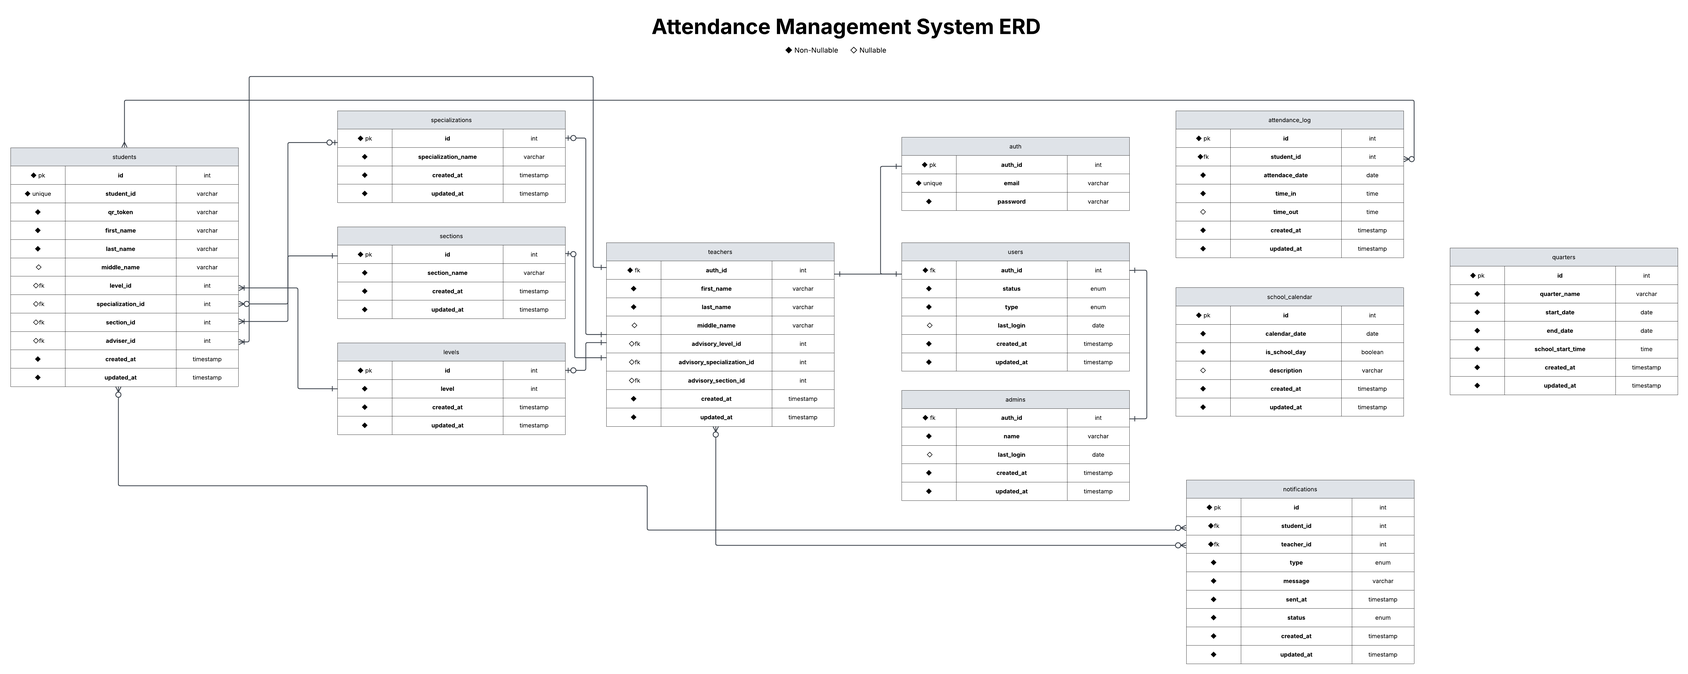
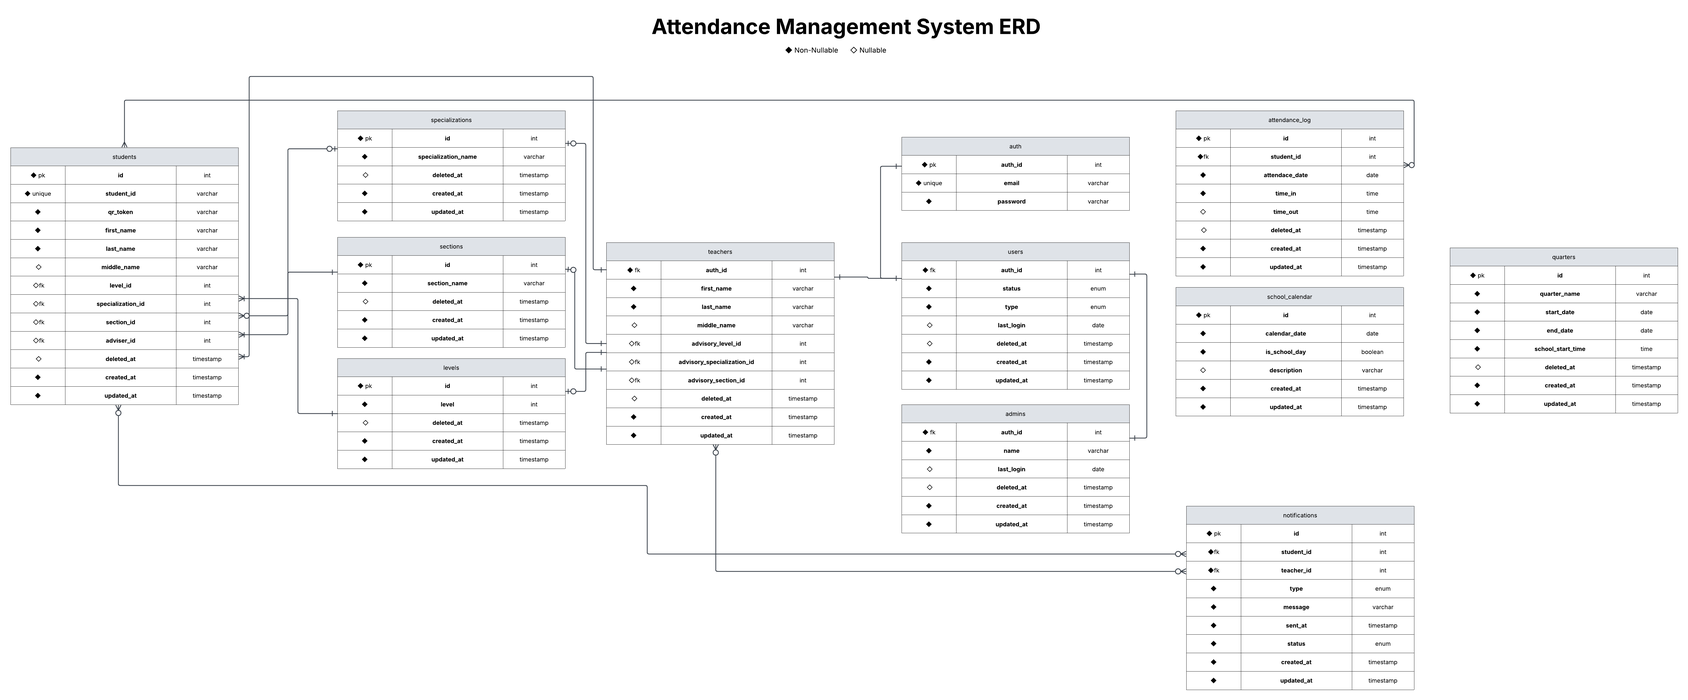
docs: update database schema with ENUM types and soft delete strategy Replace VARCHAR + CHECK constraints with ENUM types for users.type and users.status Add comprehensive soft delete implementation across all business tables Update field types from DATETIME to TIMESTAMP for better cross-database co

diff --git a/docs/schema.md b/docs/schema.md
@@ -4,7 +4,11 @@ This document outlines the database schema for the Attendance Management System,
 
 ## Authentication and RBAC Design
 
-The `auth` table stores credentials for all system users. The `users` table is the supertype, holding common fields (`auth_id`, `status`, `type`, `last_login`) and driving RBAC by checking `type` (e.g., ‘Teacher’, ‘Admin’). Role-specific tables (`teachers`, `admins`) use `auth_id` as both primary key and foreign key to `auth`, storing unique fields for each role. Admins have high-level access (e.g., opening the QR scanning portal), teachers handle advisory roles, and `users` supports extensibility for future roles (e.g., Principal, Student).
+The `auth` table stores credentials for all system users. The `users` table is the supertype, holding common fields (`auth_id`, `status`, `type`, `last_login`) and driving RBAC by checking `type` (e.g., 'Teacher', 'Admin'). Role-specific tables (`teachers`, `admins`) use `auth_id` as both primary key and foreign key to `auth`, storing unique fields for each role. Admins have high-level access (e.g., opening the QR scanning portal), teachers handle advisory roles, and `users` supports extensibility for future roles (e.g., Principal, Student).
+
+## Soft Delete Strategy
+
+Tables containing important business data implement soft deletes using `deleted_at` fields to maintain audit trails, comply with data retention requirements, and preserve referential integrity. Session data and temporary records use hard deletes for performance optimization.
 
 ## Table: `auth`
 
@@ -20,70 +24,73 @@ Stores authentication credentials for all users.
 
 - `email`: UNIQUE
 
-**Why**: Supports secure authentication for all user types. `VARCHAR(255)` accommodates hashed passwords. `auth_id` is referenced by `users`, `teachers`, and `admins`.
+**Why**: Supports secure authentication for all user types. `VARCHAR(255)` accommodates hashed passwords. `auth_id` is referenced by `users`, `teachers`, and `admins`. No soft delete needed - managed by Supabase Auth in this project.
 
 ## Table: `users`
 
 Stores common user account information and drives RBAC.
 
-| Field        | Type                            | Description                                                                |
-| ------------ | ------------------------------- | -------------------------------------------------------------------------- |
-| `auth_id`    | INT                             | Primary key, foreign key to `auth`. Uniquely identifies a user.            |
-| `type`       | ENUM('Teacher','Admin','Staff') | User role, determines access level and links to role-specific table.       |
-| `status`     | ENUM('Active','Banned')         | Account status for access control.                                         |
-| `last_login` | DATETIME                        | Last login time. Nullable.                                                 |
-| `created_at` | DATETIME                        | Record creation time, default CURRENT_TIMESTAMP.                           |
-| `updated_at` | DATETIME                        | Record update time, default CURRENT_TIMESTAMP ON UPDATE CURRENT_TIMESTAMP. |
+| Field        | Type                            | Description                                                          |
+| ------------ | ------------------------------- | -------------------------------------------------------------------- |
+| `auth_id`    | INT                             | Primary key, foreign key to `auth`. Uniquely identifies a user.      |
+| `type`       | ENUM('Teacher','Admin','Staff') | User role, determines access level and links to role-specific table. |
+| `status`     | ENUM('Active','Banned')         | Account status for access control.                                   |
+| `last_login` | TIMESTAMP                       | Last login time. Nullable.                                           |
+| `deleted_at` | TIMESTAMP                       | Soft delete timestamp. NULL = active, timestamp = deleted.           |
+| `created_at` | TIMESTAMP                       | Record creation time, default CURRENT_TIMESTAMP.                     |
+| `updated_at` | TIMESTAMP                       | Record update time, default CURRENT_TIMESTAMP.                       |
 
 **Constraints**:
 
 - Foreign key: `auth_id` (one-to-one with `auth.auth_id`)
-- Index: `auth_id`, `type` (for RBAC queries)
+- Index: `auth_id`, `type`, `deleted_at` (for RBAC queries and active user filtering)
 - UNIQUE: `(auth_id, type)` (prevents duplicate role assignments)
 
-**Why**: Acts as the supertype for all users, managing RBAC and shared fields. `type` directs to role-specific tables (e.g., `teachers` for ‘Teacher’).
+**Why**: Acts as the supertype for all users, managing RBAC and shared fields. `type` directs to role-specific tables (e.g., `teachers` for 'Teacher'). ENUM types prevent invalid data entry and provide better performance than VARCHAR with CHECK constraints. Soft delete preserves user account history and audit trails.
 
 ## Table: `admins`
 
 Stores admin-specific information for high-level system access.
 
-| Field        | Type         | Description                                                                |
-| ------------ | ------------ | -------------------------------------------------------------------------- |
-| `auth_id`    | INT          | Primary key, foreign key to `auth`. Uniquely identifies an admin.          |
-| `name`       | VARCHAR(100) | Admin’s full name.                                                         |
-| `created_at` | DATETIME     | Record creation time, default CURRENT_TIMESTAMP.                           |
-| `updated_at` | DATETIME     | Record update time, default CURRENT_TIMESTAMP ON UPDATE CURRENT_TIMESTAMP. |
+| Field        | Type         | Description                                                       |
+| ------------ | ------------ | ----------------------------------------------------------------- |
+| `auth_id`    | INT          | Primary key, foreign key to `auth`. Uniquely identifies an admin. |
+| `name`       | VARCHAR(100) | Admin's full name.                                                |
+| `deleted_at` | TIMESTAMP    | Soft delete timestamp. NULL = active, timestamp = deleted.        |
+| `created_at` | TIMESTAMP    | Record creation time, default CURRENT_TIMESTAMP.                  |
+| `updated_at` | TIMESTAMP    | Record update time, default CURRENT_TIMESTAMP.                    |
 
 **Constraints**:
 
 - Foreign key: `auth_id` (one-to-one with `auth.auth_id`)
-- Index: `auth_id` (for efficient joins)
+- Index: `auth_id`, `deleted_at` (for efficient joins and active admin filtering)
 
-**Why**: Manages admin accounts with high-level access (e.g., QR scanning portal). Excludes `last_login`, `type` as they’re in `users`.
+**Why**: Manages admin accounts with high-level access (e.g., QR scanning portal). Excludes `last_login`, `type` as they're in `users`. Soft delete preserves administrative history.
 
 ## Table: `teachers`
 
 Stores faculty-specific information for advisory roles.
 
-| Field                        | Type        | Description                                                                |
-| ---------------------------- | ----------- | -------------------------------------------------------------------------- |
-| `auth_id`                    | INT         | Primary key, foreign key to `auth`. Uniquely identifies a teacher.         |
-| `first_name`                 | VARCHAR(50) | Teacher's first name.                                                      |
-| `last_name`                  | VARCHAR(50) | Teacher's last name.                                                       |
-| `middle_name`                | VARCHAR(50) | Teacher's middle name. Nullable.                                           |
-| `advisory_level_id`          | INT         | Foreign key to `levels`, for advisory class.                               |
-| `advisory_specialization_id` | INT         | Foreign key to `specializations`, for advisory track.                      |
-| `advisory_section_id`        | INT         | Foreign key to `sections`, for advisory section.                           |
-| `created_at`                 | DATETIME    | Record creation time, default CURRENT_TIMESTAMP.                           |
-| `updated_at`                 | DATETIME    | Record update time, default CURRENT_TIMESTAMP ON UPDATE CURRENT_TIMESTAMP. |
+| Field                        | Type        | Description                                                        |
+| ---------------------------- | ----------- | ------------------------------------------------------------------ |
+| `auth_id`                    | INT         | Primary key, foreign key to `auth`. Uniquely identifies a teacher. |
+| `first_name`                 | VARCHAR(50) | Teacher's first name.                                              |
+| `last_name`                  | VARCHAR(50) | Teacher's last name.                                               |
+| `middle_name`                | VARCHAR(50) | Teacher's middle name. Nullable.                                   |
+| `advisory_level_id`          | INT         | Foreign key to `levels`, for advisory class.                       |
+| `advisory_specialization_id` | INT         | Foreign key to `specializations`, for advisory track.              |
+| `advisory_section_id`        | INT         | Foreign key to `sections`, for advisory section.                   |
+| `deleted_at`                 | TIMESTAMP   | Soft delete timestamp. NULL = active, timestamp = deleted.         |
+| `created_at`                 | TIMESTAMP   | Record creation time, default CURRENT_TIMESTAMP.                   |
+| `updated_at`                 | TIMESTAMP   | Record update time, default CURRENT_TIMESTAMP.                     |
 
 **Constraints**:
 
 - Foreign key: `auth_id` (one-to-one with `auth.auth_id`)
 - Foreign keys: `advisory_level_id`, `advisory_specialization_id`, `advisory_section_id`
-- Index: `auth_id` (for efficient joins)
+- Index: `auth_id`, `deleted_at` (for efficient joins and active teacher filtering)
 
-**Why**: Stores teacher-specific data (e.g., advisory assignments). Excludes `last_login`, `type` as they’re in `users`.
+**Why**: Stores teacher-specific data (e.g., advisory assignments). Excludes `last_login`, `type` as they're in `users`. Soft delete preserves employment history and advisory relationships.
 
 ## Table: `students`
 
@@ -101,137 +108,166 @@ Stores student information, including QR code tokens and academic details.
 | `specialization_id` | INT         | Foreign key to `specializations`, for filtering by track.                        |
 | `section_id`        | INT         | Foreign key to `sections`, for class grouping.                                   |
 | `adviser_id`        | INT         | Foreign key to `teachers`, for notifications.                                    |
-| `created_at`        | DATETIME    | Record creation time, default CURRENT_TIMESTAMP.                                 |
-| `updated_at`        | DATETIME    | Record update time, default CURRENT_TIMESTAMP ON UPDATE CURRENT_TIMESTAMP.       |
+| `deleted_at`        | TIMESTAMP   | Soft delete timestamp. NULL = active, timestamp = deleted.                       |
+| `created_at`        | TIMESTAMP   | Record creation time, default CURRENT_TIMESTAMP.                                 |
+| `updated_at`        | TIMESTAMP   | Record update time, default CURRENT_TIMESTAMP.                                   |
 
 **Constraints**:
 
 - `student_id`: UNIQUE
 - `qr_token`: UNIQUE
 - Foreign keys: `level_id`, `specialization_id`, `section_id`, `adviser_id`
+- Index: `student_id`, `qr_token`, `deleted_at` (for QR scanning and active student filtering)
 
-**Why**: `qr_token` supports secure QR scanning. Foreign keys enable analytics by level, specialization, or section.
+**Why**: `qr_token` supports secure QR scanning. Foreign keys enable analytics by level, specialization, or section. Soft delete preserves student enrollment history and academic records.
 
 ## Table: `levels`
 
 Stores academic year/grade levels for grouping students.
 
-| Field        | Type     | Description                                                                |
-| ------------ | -------- | -------------------------------------------------------------------------- |
-| `id`         | INT      | Primary key, auto-incremented.                                             |
-| `level`      | INT      | Year or grade level (e.g., 11, 12).                                        |
-| `created_at` | DATETIME | Record creation time, default CURRENT_TIMESTAMP.                           |
-| `updated_at` | DATETIME | Record update time, default CURRENT_TIMESTAMP ON UPDATE CURRENT_TIMESTAMP. |
+| Field        | Type      | Description                                                |
+| ------------ | --------- | ---------------------------------------------------------- |
+| `id`         | INT       | Primary key, auto-incremented.                             |
+| `level`      | INT       | Year or grade level (e.g., 11, 12).                        |
+| `deleted_at` | TIMESTAMP | Soft delete timestamp. NULL = active, timestamp = deleted. |
+| `created_at` | TIMESTAMP | Record creation time, default CURRENT_TIMESTAMP.           |
+| `updated_at` | TIMESTAMP | Record update time, default CURRENT_TIMESTAMP.             |
 
-**Why**: Enables analytics by grade level. `INT` for `level` is sufficient for grades 1–12.
+**Constraints**:
+
+- Index: `deleted_at` (for active level filtering)
+
+**Why**: Enables analytics by grade level. `INT` for `level` is sufficient for grades 1–12. Soft delete prevents foreign key violations when levels are referenced by students.
 
 ## Table: `sections`
 
 Stores class section groupings.
 
-| Field          | Type        | Description                                                                |
-| -------------- | ----------- | -------------------------------------------------------------------------- |
-| `id`           | INT         | Primary key, auto-incremented.                                             |
-| `section_name` | VARCHAR(20) | Section name (e.g., "A", "B").                                             |
-| `created_at`   | DATETIME    | Record creation time, default CURRENT_TIMESTAMP.                           |
-| `updated_at`   | DATETIME    | Record update time, default CURRENT_TIMESTAMP ON UPDATE CURRENT_TIMESTAMP. |
+| Field          | Type        | Description                                                |
+| -------------- | ----------- | ---------------------------------------------------------- |
+| `id`           | INT         | Primary key, auto-incremented.                             |
+| `section_name` | VARCHAR(20) | Section name (e.g., "A", "B").                             |
+| `deleted_at`   | TIMESTAMP   | Soft delete timestamp. NULL = active, timestamp = deleted. |
+| `created_at`   | TIMESTAMP   | Record creation time, default CURRENT_TIMESTAMP.           |
+| `updated_at`   | TIMESTAMP   | Record update time, default CURRENT_TIMESTAMP.             |
 
-**Why**: Supports grouping for analytics and late tracking.
+**Constraints**:
+
+- Index: `deleted_at` (for active section filtering)
+
+**Why**: Supports grouping for analytics and late tracking. Soft delete prevents foreign key violations when sections are referenced by students.
 
 ## Table: `specializations`
 
 Stores student academic tracks (e.g., STEM, ABM).
 
-| Field                 | Type        | Description                                                                |
-| --------------------- | ----------- | -------------------------------------------------------------------------- |
-| `id`                  | INT         | Primary key, auto-incremented.                                             |
-| `specialization_name` | VARCHAR(50) | Track name (e.g., "STEM").                                                 |
-| `created_at`          | DATETIME    | Record creation time, default CURRENT_TIMESTAMP.                           |
-| `updated_at`          | DATETIME    | Record update time, default CURRENT_TIMESTAMP ON UPDATE CURRENT_TIMESTAMP. |
+| Field                 | Type        | Description                                                |
+| --------------------- | ----------- | ---------------------------------------------------------- |
+| `id`                  | INT         | Primary key, auto-incremented.                             |
+| `specialization_name` | VARCHAR(50) | Track name (e.g., "STEM").                                 |
+| `deleted_at`          | TIMESTAMP   | Soft delete timestamp. NULL = active, timestamp = deleted. |
+| `created_at`          | TIMESTAMP   | Record creation time, default CURRENT_TIMESTAMP.           |
+| `updated_at`          | TIMESTAMP   | Record update time, default CURRENT_TIMESTAMP.             |
 
-**Why**: Filters analytics by track. `VARCHAR(50)` covers most specialization names.
+**Constraints**:
+
+- Index: `deleted_at` (for active specialization filtering)
+
+**Why**: Filters analytics by track. `VARCHAR(50)` covers most specialization names. Soft delete prevents foreign key violations when specializations are referenced by students.
 
 ## Table: `attendance_log`
 
 Stores student attendance records for time tracking and analytics.
 
-| Field             | Type     | Description                                                                |
-| ----------------- | -------- | -------------------------------------------------------------------------- |
-| `id`              | INT      | Primary key, auto-incremented.                                             |
-| `student_id`      | INT      | Foreign key to `students`.                                                 |
-| `attendance_date` | DATE     | Date of attendance record.                                                 |
-| `time_in`         | TIME     | Time student clocked in.                                                   |
-| `time_out`        | TIME     | Time student clocked out. Nullable.                                        |
-| `is_late`         | BOOLEAN  | True if `time_in` exceeds `quarters.school_start_time`.                    |
-| `created_at`      | DATETIME | Record creation time, default CURRENT_TIMESTAMP.                           |
-| `updated_at`      | DATETIME | Record update time, default CURRENT_TIMESTAMP ON UPDATE CURRENT_TIMESTAMP. |
+| Field             | Type      | Description                                                |
+| ----------------- | --------- | ---------------------------------------------------------- |
+| `id`              | INT       | Primary key, auto-incremented.                             |
+| `student_id`      | INT       | Foreign key to `students`.                                 |
+| `attendance_date` | DATE      | Date of attendance record.                                 |
+| `time_in`         | TIME      | Time student clocked in.                                   |
+| `time_out`        | TIME      | Time student clocked out. Nullable.                        |
+| `is_late`         | BOOLEAN   | True if `time_in` exceeds `quarters.school_start_time`.    |
+| `deleted_at`      | TIMESTAMP | Soft delete timestamp. NULL = active, timestamp = deleted. |
+| `created_at`      | TIMESTAMP | Record creation time, default CURRENT_TIMESTAMP.           |
+| `updated_at`      | TIMESTAMP | Record update time, default CURRENT_TIMESTAMP.             |
 
 **Constraints**:
 
 - Foreign key: `student_id`
-- Index: `student_id`, `attendance_date` (for analytics queries)
+- Index: `student_id`, `attendance_date`, `deleted_at` (for analytics queries and active record filtering)
 
-**Why**: Core table for time logs, late calculations, and absence detection.
+**Why**: Core table for time logs, late calculations, and absence detection. Soft delete preserves attendance history for audit trails and compliance requirements.
 
 ## Table: `notifications`
 
 Stores notifications for teachers (e.g., 3+ absences).
 
-| Field        | Type                            | Description                                                                |
-| ------------ | ------------------------------- | -------------------------------------------------------------------------- |
-| `id`         | INT                             | Primary key, auto-incremented.                                             |
-| `student_id` | INT                             | Foreign key to `students`.                                                 |
-| `teacher_id` | INT                             | Foreign key to `teachers`.                                                 |
-| `type`       | ENUM('Alert','Reminder')        | Notification type.                                                         |
-| `message`    | VARCHAR(255)                    | Notification content (e.g., "Student X has 3 absences").                   |
-| `sent_at`    | DATETIME                        | Time notification was sent.                                                |
-| `status`     | ENUM('Sent','Delivered','Read') | Notification status.                                                       |
-| `created_at` | DATETIME                        | Record creation time, default CURRENT_TIMESTAMP.                           |
-| `updated_at` | DATETIME                        | Record update time, default CURRENT_TIMESTAMP ON UPDATE CURRENT_TIMESTAMP. |
+| Field        | Type         | Description                                              |
+| ------------ | ------------ | -------------------------------------------------------- |
+| `id`         | INT          | Primary key, auto-incremented.                           |
+| `student_id` | INT          | Foreign key to `students`.                               |
+| `teacher_id` | INT          | Foreign key to `teachers`.                               |
+| `type`       | VARCHAR(20)  | Notification type ('Alert', 'Reminder').                 |
+| `message`    | VARCHAR(255) | Notification content (e.g., "Student X has 3 absences"). |
+| `sent_at`    | TIMESTAMP    | Time notification was sent.                              |
+| `status`     | VARCHAR(20)  | Notification status ('Sent', 'Delivered', 'Read').       |
+| `created_at` | TIMESTAMP    | Record creation time, default CURRENT_TIMESTAMP.         |
+| `updated_at` | TIMESTAMP    | Record update time, default CURRENT_TIMESTAMP.           |
 
 **Constraints**:
 
 - Foreign keys: `student_id`, `teacher_id`
 - Index: `teacher_id` (for notification queries)
+- CHECK: `type IN ('Alert', 'Reminder')`
+- CHECK: `status IN ('Sent', 'Delivered', 'Read')`
 
-**Why**: Supports automated notifications for absences.
+**Why**: Supports automated notifications for absences. No soft delete needed - notifications have natural lifecycle (sent, delivered, read) and can be hard deleted after retention period.
 
 ## Table: `quarters`
 
 Defines academic quarters for analytics and late calculations.
 
-| Field               | Type        | Description                                                                |
-| ------------------- | ----------- | -------------------------------------------------------------------------- |
-| `id`                | INT         | Primary key, auto-incremented.                                             |
-| `quarter_name`      | VARCHAR(20) | Quarter name (e.g., "Q1").                                                 |
-| `start_date`        | DATE        | Quarter start date.                                                        |
-| `end_date`          | DATE        | Quarter end date.                                                          |
-| `school_start_time` | TIME        | Official class start time for late calculations.                           |
-| `created_at`        | DATETIME    | Record creation time, default CURRENT_TIMESTAMP.                           |
-| `updated_at`        | DATETIME    | Record update time, default CURRENT_TIMESTAMP ON UPDATE CURRENT_TIMESTAMP. |
+| Field               | Type        | Description                                                |
+| ------------------- | ----------- | ---------------------------------------------------------- |
+| `id`                | INT         | Primary key, auto-incremented.                             |
+| `quarter_name`      | VARCHAR(20) | Quarter name (e.g., "Q1").                                 |
+| `start_date`        | DATE        | Quarter start date.                                        |
+| `end_date`          | DATE        | Quarter end date.                                          |
+| `school_start_time` | TIME        | Official class start time for late calculations.           |
+| `deleted_at`        | TIMESTAMP   | Soft delete timestamp. NULL = active, timestamp = deleted. |
+| `created_at`        | TIMESTAMP   | Record creation time, default CURRENT_TIMESTAMP.           |
+| `updated_at`        | TIMESTAMP   | Record update time, default CURRENT_TIMESTAMP.             |
 
-**Why**: `school_start_time` enables automatic late detection.
+**Constraints**:
+
+- Index: `deleted_at` (for active quarter filtering)
+
+**Why**: `school_start_time` enables automatic late detection. Soft delete preserves academic calendar history for reporting and analytics.
 
 ## Table: `school_calendar`
 
 Stores school calendar to filter non-school days.
 
-| Field           | Type         | Description                                                                |
-| --------------- | ------------ | -------------------------------------------------------------------------- |
-| `id`            | INT          | Primary key, auto-incremented.                                             |
-| `calendar_date` | DATE         | Calendar date.                                                             |
-| `is_school_day` | BOOLEAN      | True if a school day.                                                      |
-| `description`   | VARCHAR(100) | Holiday or event description. Nullable.                                    |
-| `created_at`    | DATETIME     | Record creation time, default CURRENT_TIMESTAMP.                           |
-| `updated_at`    | DATETIME     | Record update time, default CURRENT_TIMESTAMP ON UPDATE CURRENT_TIMESTAMP. |
+| Field           | Type         | Description                                      |
+| --------------- | ------------ | ------------------------------------------------ |
+| `id`            | INT          | Primary key, auto-incremented.                   |
+| `calendar_date` | DATE         | Calendar date.                                   |
+| `is_school_day` | BOOLEAN      | True if a school day.                            |
+| `description`   | VARCHAR(100) | Holiday or event description. Nullable.          |
+| `created_at`    | TIMESTAMP    | Record creation time, default CURRENT_TIMESTAMP. |
+| `updated_at`    | TIMESTAMP    | Record update time, default CURRENT_TIMESTAMP.   |
 
-**Why**: Excludes holidays from absence/late calculations.
+**Why**: Excludes holidays from absence/late calculations. No soft delete needed - calendar entries are historical facts that should not be "deleted" to maintain data integrity for past attendance calculations.
 
 ## Indexes
 
-- `students(student_id, qr_token)`: Speeds up QR scanning and student lookups.
-- `attendance_log(student_id, attendance_date)`: Optimizes analytics queries.
+- `students(student_id, qr_token, deleted_at)`: Speeds up QR scanning and active student lookups.
+- `attendance_log(student_id, attendance_date, deleted_at)`: Optimizes analytics queries for active records.
 - `notifications(teacher_id)`: Improves notification retrieval.
-- `users(auth_id, type)`: Optimizes RBAC and joins with `auth`.
-- `teachers(auth_id)`: Optimizes joins with `auth`.
-- `admins(auth_id)`: Optimizes joins with `auth`.
+- `users(auth_id, type, deleted_at)`: Optimizes RBAC and active user filtering.
+- `teachers(auth_id, deleted_at)`: Optimizes joins with `auth` and active teacher filtering.
+- `admins(auth_id, deleted_at)`: Optimizes joins with `auth` and active admin filtering.
+- `levels(deleted_at)`: Optimizes active level filtering.
+- `sections(deleted_at)`: Optimizes active section filtering.
+- `specializations(deleted_at)`: Optimizes active specialization filtering.
+- `quarters(deleted_at)`: Optimizes active quarter filtering.
